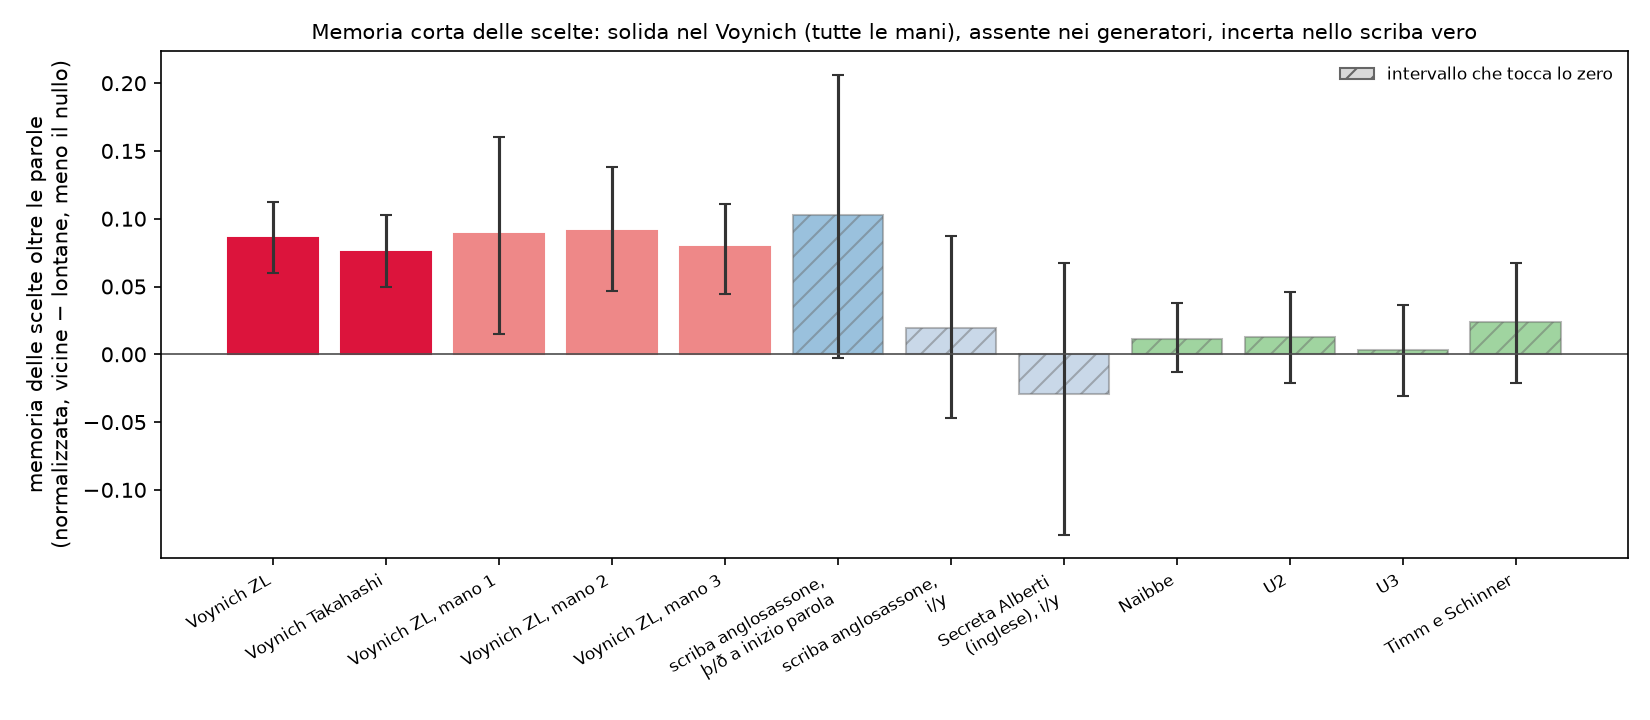
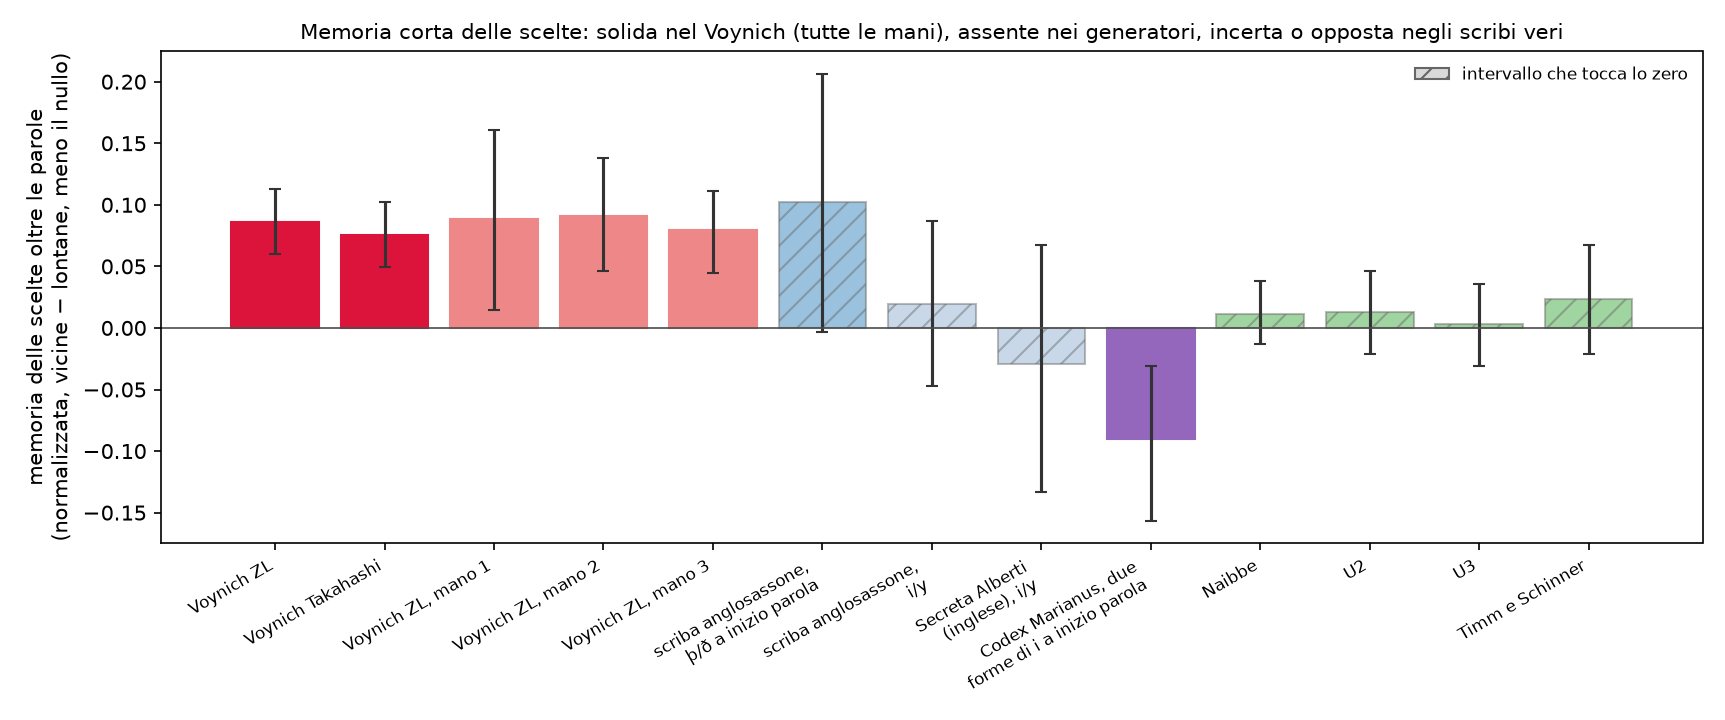
Figura memoria_scribi.png con il Codex Marianus (e3b75)

diff --git a/strumenti/figura_memoria_scribi.py b/strumenti/figura_memoria_scribi.py
@@ -1,7 +1,7 @@
 # -*- coding: utf-8 -*-
 """Figura di sintesi (nessun dato nuovo): memoria delle scelte di grafia oltre le parole (effetto = M osservata − media del
 nullo largo dell'e3b62), con intervalli al 95% ricampionando pagine o blocchi interi (e3b70): Voynich ZL e IT e per
-mano, scriba anglosassone (þ/ð, i/y), altri testi storici (i/y), generatori. Scrive risultati/figure/memoria_scribi.png.
+mano, scriba anglosassone (þ/ð, i/y), altri testi storici (i/y), Codex Marianus (e3b75), generatori. Scrive risultati/figure/memoria_scribi.png.
 """
 import json, os
 
@@ -28,11 +28,14 @@ def main():
             ('Secreta Alberti\n(inglese), i/y', 'Secreta Alberti, i/y', '#8ac'),
             ('Naibbe', 'Naibbe (Greshko 2025), a capo', 'tab:green'), ('U2', 'U2 (Whitehatnetizen 2026)', 'tab:green'),
             ('U3', 'U3 (Whitehatnetizen 2026)', 'tab:green'), ('Timm e Schinner', 'Timm e Schinner, seme 1', 'tab:green')]
-    fig, ax = plt.subplots(figsize=(11, 4.8))
+    mar = carica('e3b75_marianus.json')
+    a['Codex Marianus, и/ꙇ'] = {'effetto': mar['effetto'], 'IC95': mar['IC95']}
+    voce.insert(8, ('Codex Marianus, due\nforme di i a inizio parola', 'Codex Marianus, и/ꙇ', 'tab:purple'))
+    fig, ax = plt.subplots(figsize=(11.5, 4.8))
     for i, (nome, k, col) in enumerate(voce):
         x = a[k]
         e, (lo, hi) = x['effetto'], x['IC95']
-        ns = lo <= 0
+        ns = lo <= 0 <= hi
         ax.bar(i, e, color=col, alpha=0.45 if ns else 1.0, hatch='//' if ns else None, edgecolor='0.4' if ns else col)
         ax.errorbar(i, e, yerr=[[e - lo], [hi - e]], color='0.2', capsize=3)
     from matplotlib.patches import Patch
@@ -41,7 +44,7 @@ def main():
     ax.set_xticks(np.arange(len(voce)))
     ax.set_xticklabels([v[0] for v in voce], rotation=30, ha='right', fontsize=8)
     ax.set_ylabel('memoria delle scelte oltre le parole\n(normalizzata, vicine − lontane, meno il nullo)')
-    ax.set_title('Memoria corta delle scelte: solida nel Voynich (tutte le mani), assente nei generatori, incerta nello scriba vero', fontsize=10)
+    ax.set_title('Memoria corta delle scelte: solida nel Voynich (tutte le mani), assente nei generatori, incerta o opposta negli scribi veri', fontsize=10)
     fig.tight_layout()
     os.makedirs(os.path.join(R, 'figure'), exist_ok=True)
     out = os.path.join(R, 'figure', 'memoria_scribi.png')
